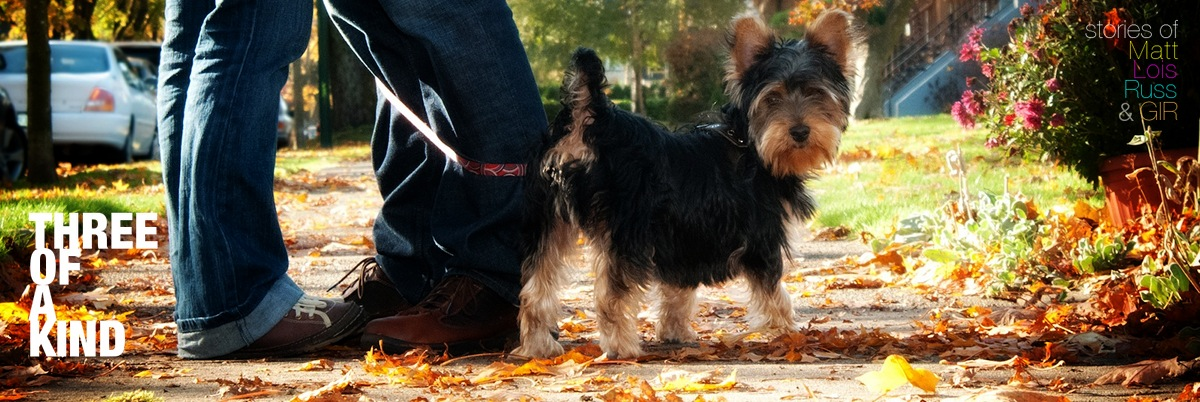
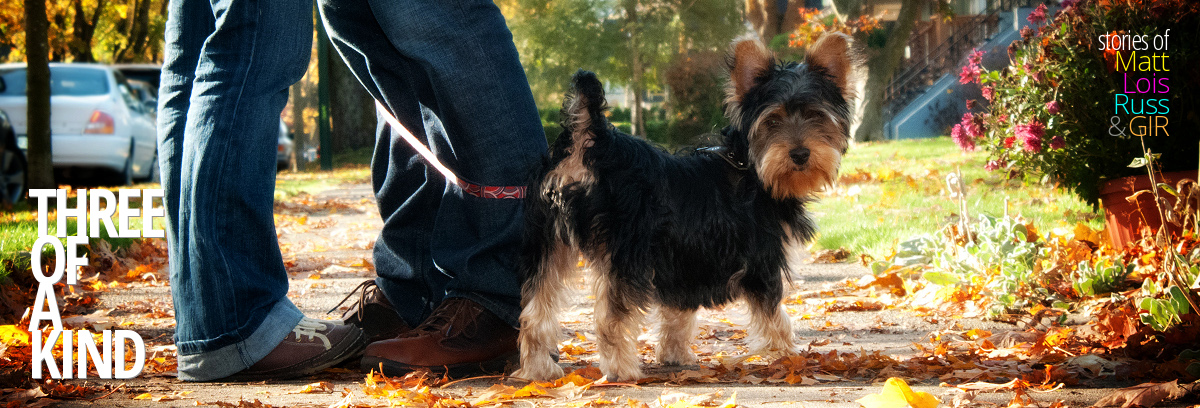
changing font from helvetica neue to open sans/sans condensed... not as nice as helvetica, obviously, but it's open source and libre

diff --git a/sass/custom/_fonts.scss b/sass/custom/_fonts.scss
@@ -2,9 +2,9 @@
 // To give it a try, uncomment some of the lines below rebuild your blog, and see how it works. your sites's.
 // If you love to use Web Fonts, you also need to add some lines to source/_includes/custom/head.html
 
-//$sans: "Optima", sans-serif;
+$sans: "Open Sans", sans-serif;
 $serif: "Gentium Basic", serif;
 //$mono: "Courier", monospace;
-//$heading-font-family: "Verdana", sans-serif;
+$heading-font-family: "Open Sans Condensed", serif;
 //$header-title-font-family: "Futura", sans-serif;
 //$header-subtitle-font-family: "Futura", sans-serif;

diff --git a/source/_includes/custom/head.html b/source/_includes/custom/head.html
@@ -1,3 +1,3 @@
 <!--Fonts from Google's Web font directory at http://google.com/webfonts -->
 <link href='http://fonts.googleapis.com/css?family=Gentium+Basic:400,700,400italic,700italic' rel='stylesheet' type='text/css'>
-<link href='http://fonts.googleapis.com/css?family=PT+Sans:regular,italic,bold,bolditalic' rel='stylesheet' type='text/css'>
+<link href='http://fonts.googleapis.com/css?family=Open+Sans:300italic,300,400|Open+Sans+Condensed:700' rel='stylesheet' type='text/css'>

diff --git a/sass/custom/_styles.scss b/sass/custom/_styles.scss
@@ -2,13 +2,17 @@
 // Add styles here to make changes without digging in too much
 
 header[role='banner'] {
-  height: 402px;
+  height: 408px;
   background: url('/images/header_gir.jpg');
   padding: 0;
 }
 
 header[role='banner'] hgroup {
   visibility: hidden;
+}
+
+h1 {
+  text-transform: uppercase;
 }
 
 p {
